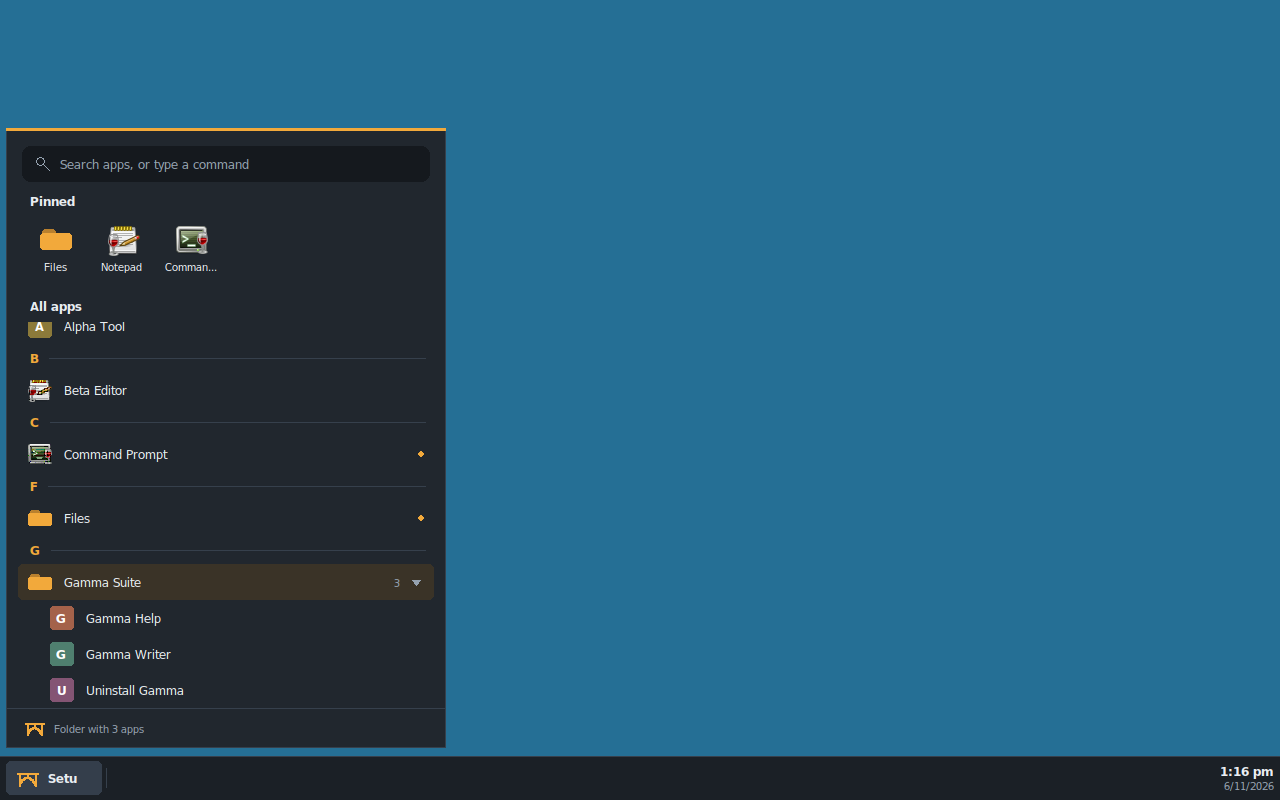
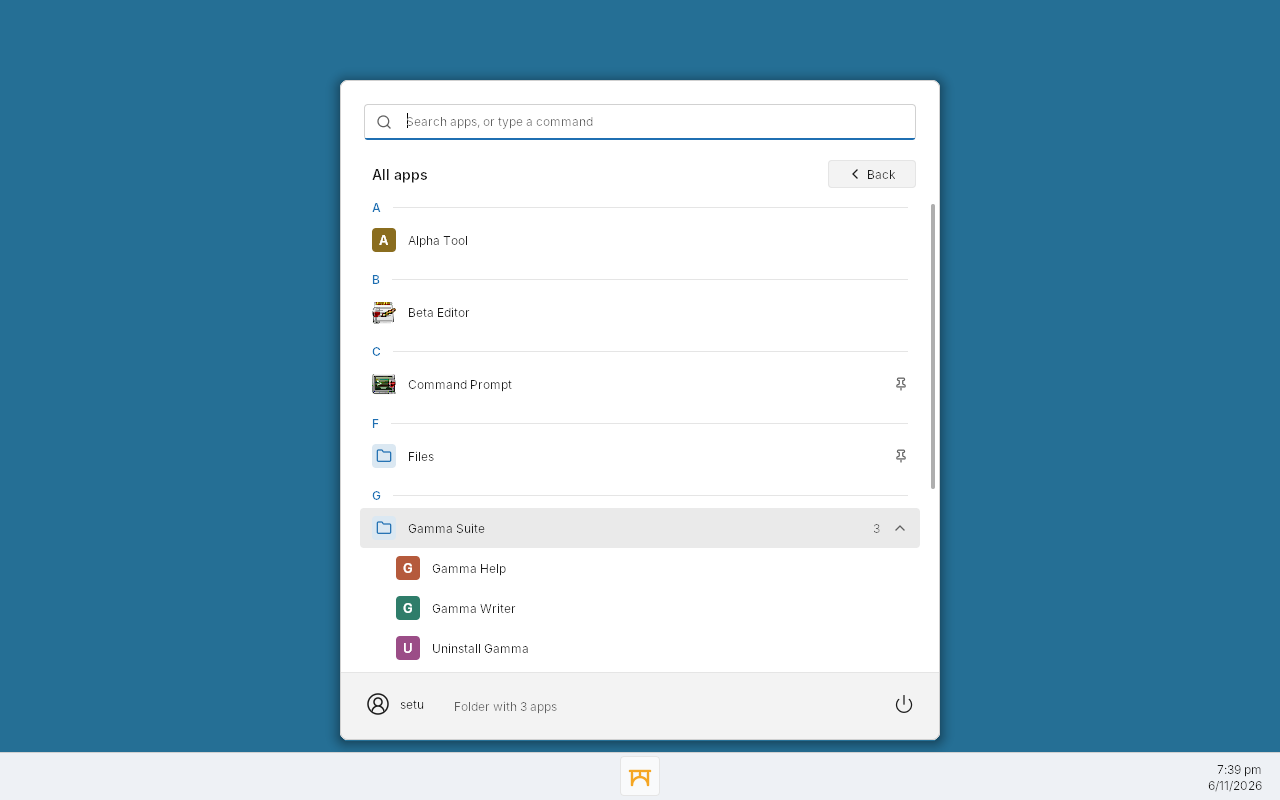
shell: Update the README and screenshots for the new look.
New screenshots from the three smokes; the old look is kept in
shell/docs/m3-before/ for comparison. The README describes the
design tokens, Inter, the Lucide icons and gen-icons.py,
TaskbarAlignment, the start menu's views and power menu, and the
file manager's command bar and breadcrumbs.

Setu-Docs: shell/README.md
Claude-Session: https://claude.ai/code/session_01FDkYpcDYFe3xe3wgGrwG4w

diff --git a/shell/README.md b/shell/README.md
@@ -7,14 +7,22 @@ Setu personality. It only uses public, documented APIs from user32, gdi32,
 shell32, ole32, advapi32 and kernel32, so it doubles as a test of the
 personality (docs/ARCHITECTURE.md §3.4).
 
-![Start menu](docs/startmenu-05-pinned.png)
+| | |
+|---|---|
+| ![Start menu, pinned apps](docs/startmenu-01-pinned.png) | ![Start menu, All apps](docs/startmenu-03-group.png) |
 
 ## What it does
 
-- **Taskbar** docked to the bottom of the primary monitor. It registers as an
-  appbar (`SHAppBarMessage`) and reserves the work area
-  (`SPI_SETWORKAREA`) when the appbar alone doesn't.
-- **Start menu** (start button, the Windows key on its own, or Ctrl+Esc):
+- **Taskbar** docked to the bottom of the primary monitor, 48 px. It
+  registers as an appbar (`SHAppBarMessage`) and reserves the work area
+  (`SPI_SETWORKAREA`) when the appbar alone doesn't. The Setu button and the
+  window buttons are centred; `TaskbarAlignment` = 1 (REG_DWORD) in
+  `HKCU\Software\Setu\Shell` puts them on the left (read at start and on
+  `--reload`).
+- **Start menu** (start button, the Windows key on its own, or Ctrl+Esc): a
+  floating panel above the taskbar with a search box, the pinned apps and an
+  **All apps** button; the user (opens the home folder) and a power button
+  (Sign out, Restart, Shut down) are at the bottom.
   - **All apps**, A to Z under letter headers: the built-ins (Files =
     `setu-files.exe`, else `explorer.exe`/`winefile.exe`; Notepad, Command
     Prompt, Registry Editor) plus every `.lnk` and `.url` under the per-user
@@ -36,14 +44,20 @@ personality (docs/ARCHITECTURE.md §3.4).
     anywhere, then folder name); Enter starts the best match. If nothing
     matches, Enter runs the text as a command (`ShellExecuteExW`; `.msi`
     files fall back to `msiexec /i` if they have no file association).
-  - **Pinned** row at the top (Files, Notepad, Command Prompt to start with):
+  - **Pinned** grid (6 columns, up to 24; Files, Notepad, Command Prompt to start with):
     right-click an app for Open, Pin/Unpin, Open file location
     (`setu-files.exe "<folder>"`, else `explorer /select`) and Uninstall
     (runs the `UninstallString`). Pins live in `HKCU\Software\Setu\Shell`,
     value `Pinned` (REG_MULTI_SZ, in order).
-  - **Keyboard**: arrows move through the pins and the list, Left/Right
-    collapse and expand groups, Enter opens, the Menu key or Shift+F10 opens
-    the context menu, Esc closes.
+  - **Keyboard**: arrows move through the pins; Up from the top row reaches
+    the All apps / Back button, and Enter there switches views. In the list,
+    arrows move through the rows and Left/Right collapse and expand groups.
+    Tab reaches the user and power buttons. Enter opens, the Menu key or
+    Shift+F10 opens the context menu, Esc closes.
+  - **Power**: Sign out is `ExitWindowsEx(EWX_LOGOFF)`; the shell exits with
+    0 on `WM_ENDSESSION`, which ends the session (distro/setu-session).
+    Restart and Shut down run `systemctl reboot` / `poweroff` through `Z:`
+    and are greyed out where there is no systemctl.
   - **Refresh**: when an installer adds or removes shortcuts or Uninstall
     entries, the menu updates within a second, open or not
     (`FindFirstChangeNotificationW` on both Programs folders,
@@ -53,12 +67,41 @@ personality (docs/ARCHITECTURE.md §3.4).
   taskbar rules (visible; `WS_EX_APPWINDOW` forces a button; owned or
   `WS_EX_TOOLWINDOW` windows get none). Click to activate, click the active
   one to minimize, click a minimized one to restore; right-click for
-  Minimize/Restore/Close. Refreshed by `RegisterShellHookWindow` messages
-  where that works, plus a timer.
-- **Clock** in the tray area. Sizes scale with DPI (per-monitor aware).
+  Minimize/Restore/Close. Each button is 40 px with a 24 px icon, a tooltip
+  with the title, and an accent pill under running apps (long for the
+  active one). Refreshed by `RegisterShellHookWindow` messages where that
+  works, plus a timer.
+- **Clock** (time over date) in the tray area. Sizes scale with DPI
+  (per-monitor aware).
 
-The look is our own: slate bar, a warm accent, and a bridge mark drawn with
-GDI. No Microsoft artwork, icons or fonts.
+## Look
+
+The shell and the file manager follow docs/DESIGN.md, Setu's own design:
+light surfaces, one accent colour, rounded corners. No Microsoft artwork,
+icons or fonts.
+
+- **Design tokens**: `src/setu-style.h` holds DESIGN.md's colours, radii and
+  sizes, read through one palette pointer (`ST`) so a dark palette can be
+  added later. It also has the drawing both programs share: anti-aliased
+  rounded rectangles, frames and soft shadows on a 32-bit DIB (from a
+  signed distance), text, and the line icons.
+- **Type**: Inter (body 9 pt, captions 9 pt semibold, titles 10.5 pt
+  semibold, large 14 pt semibold) when the system has it (the image installs
+  fonts-inter), else the system's message font.
+- **Icons**: [Lucide](https://lucide.dev) line icons (ISC licence,
+  `icons/lucide/LICENSE`). The unmodified SVGs are in `icons/lucide/`;
+  `icons/gen-icons.py` flattens them into stroke segments in
+  `src/setu-icons.h` (`python3 shell/icons/gen-icons.py >
+  shell/src/setu-icons.h` after adding one), and they are rasterized at the
+  size needed, 1.5 px strokes at 24 px. The Setu bridge mark on the start
+  button is drawn the same way.
+- **Start menu shadow**: Wine's virtual desktop has no translucent windows,
+  so the menu copies what is under it before it opens and draws the shadow
+  and the rounded corners over that copy. When the copy fails, it is a
+  window with a rounded region instead.
+
+Before/after screenshots of this restyle: `docs/m3-before/` holds the old
+look.
 
 ## Build
 
@@ -115,7 +158,8 @@ the start button opens the launcher with the built-ins and a test `.lnk`;
 launching Notepad adds a taskbar button; the run box starts regedit;
 real clicks on the Notepad button activate, minimize and restore it; and the
 desktop is repainted where the closed launcher and the minimized Notepad
-were (pixels sampled there must match the desktop background).
+were (pixels sampled there must match the desktop background); and the
+buttons are centred, and on the left with `TaskbarAlignment` = 1.
 Clicks are sent with `SendInput` by `shell/tests/setu-probe.exe`, which also
 lists the top-level windows (`setu-probe windows [all]`).
 Screenshots land in `build/shell/smoke/`.
@@ -138,7 +182,8 @@ a throwaway prefix (`build/startmenu-prefix`), with shortcuts and Uninstall
 entries pointing at `shell/tests/setu-testapp.exe`: discovery (both Programs
 folders, subfolders, groups, de-duplication, icons and glyphs, Other apps,
 hidden system components), the Windows key and typing to search, Enter on
-the best match, Ctrl+Esc, arrow keys and Esc, expanding a group, a shortcut
+the best match, Ctrl+Esc, arrow keys through the pins, the All apps button
+(by keyboard and by mouse) and the rows, Esc, expanding a group, a shortcut
 added and removed while the menu is open, right-click > Pin (and the
 registry value), right-click > Uninstall, the command fallback, and the pin
 after a restart. Keys and clicks are real input (`setu-probe key`, `type`,
@@ -153,9 +198,6 @@ Found while building the shell:
 - `SHChangeNotify` only reaches `SHChangeNotifyRegister` windows in the same
   process, so the menu relies on `FindFirstChangeNotificationW` to hear
   installers (reported to shell-api).
-- In the virtual desktop, a popup menu lying wholly inside another window
-  isn't painted, so the menu's context menu pops out over its right edge
-  (reported to shell-api).
 
 Fixed in the personality (checked by `setu-xproc`): the system-wide work area
 (`ABM_SETPOS`, `SPI_SETWORKAREA`), cross-process window and class icons,
@@ -185,14 +227,22 @@ learn.microsoft.com: *Using Application Desktop Toolbars*, *The Taskbar*
 ## Files (setu-files.exe)
 
 `src/setu-files.c` is Setu's file manager; the launcher's **Files** entry
-starts it. It's plain Win32 with the shell's warm-on-slate palette.
+starts it. It's plain Win32, drawn with `src/setu-style.h` like the shell.
 
 ![Files, details view](docs/files-01-details.png)
 
 - **Browsing**: a sidebar with Home, Desktop, Documents and Downloads (known
   folders), the drives and the Recycle Bin (with its item count). The list has
   a details view (name, size, type, modified; click a header to sort) and an
-  icons view. The address bar takes a path, `Drives` or `Recycle Bin`.
+  icons view. The address bar shows breadcrumbs (click one to go there);
+  click beside them, Tab, Ctrl+L, Alt+D or F4 to type a path, `Drives` or
+  `Recycle Bin`.
+- **Command bar**: New folder (Empty Recycle Bin in the bin), Cut, Copy,
+  Paste, Rename, Delete, Properties and the view switch, as icon buttons
+  with tooltips; Back, Forward, Up and Refresh sit next to the address bar.
+  Rows are 32 px and owner-drawn: the selection is the accent at 20 % with
+  a 1 px accent outline (lighter, without the outline, when the list doesn't
+  have the focus).
 - **Opening**: Enter or a double-click. Folders open in place; files go to
   `ShellExecuteExW` with the default verb. **Open with…** lists the handlers
   from the association registry (`AssocQueryStringW`, `OpenWithProgids`,
@@ -224,7 +274,9 @@ Ctrl+H (show hidden files) and Tab (moves between sidebar, list and address).
 
 **Test**: `tools/files-smoke.sh [--update-docs] [--keep]` runs under its own
 Xvfb with a fresh prefix (`build/files-prefix`). It sets `HOME`/`XDG_*` to
-`build/files-home`, so the Recycle Bin (the XDG trash) never touches yours. It
+`build/files-home`, so the Recycle Bin (the XDG trash) never touches yours,
+and keeps the machine's disks out of the prefix (Wine's mount manager would
+add them from udisks). It
 drives the window with real keys and mouse (`setu-files-probe.exe`) and with
 `WM_COPYDATA` commands, then reads the window's state file. It covers
 browsing, sorting, new folder, rename, copy/paste, cut/paste, drag and drop, an
